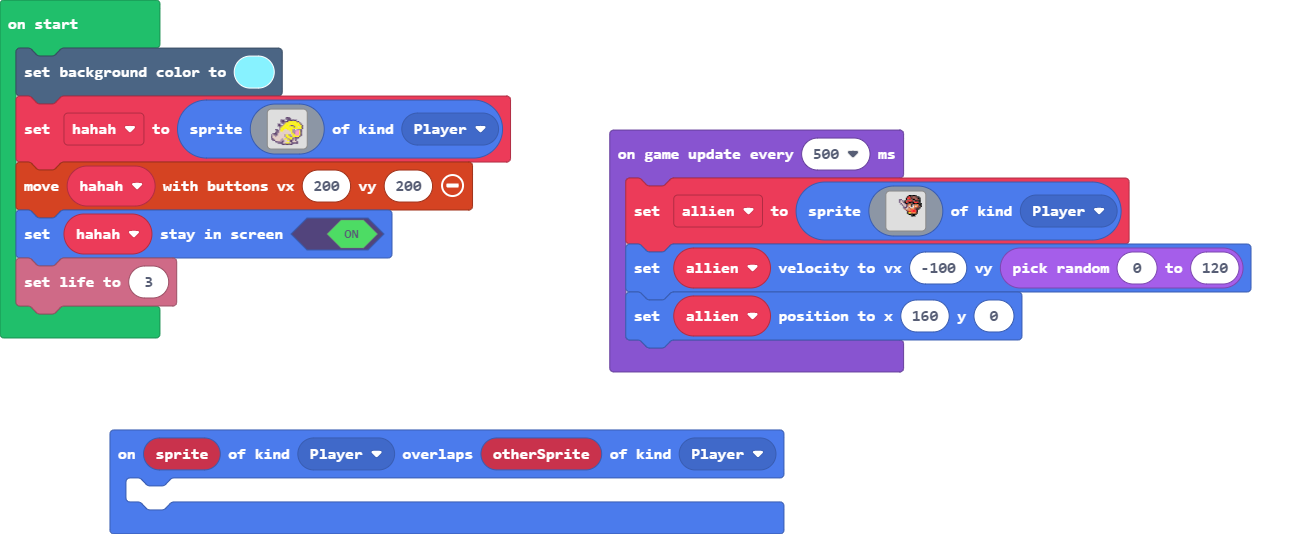
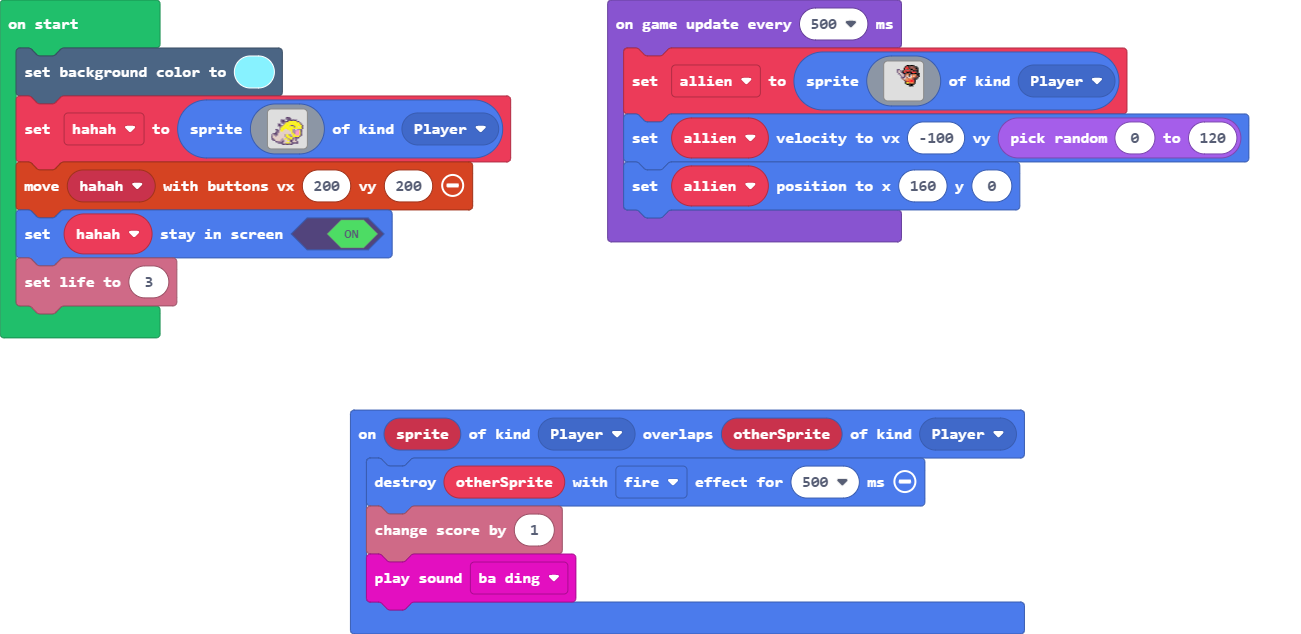
Update main.blocks, main.ts

diff --git a/main.ts b/main.ts
@@ -1,48 +1,11 @@
-controller.A.onEvent(ControllerButtonEvent.Pressed, function () {
-    projectile = sprites.createProjectileFromSprite(img`
-        ................................
-        ................................
-        ................................
-        ................................
-        ................................
-        ................................
-        ................................
-        ...........2.2.2...222..........
-        ..........4.4.4..225552.........
-        .........2.2.2.225522252........
-        ........4.4.4.4.252292252.......
-        .........2.2.2.225522252........
-        ..........4.4.4..225552.........
-        ...........2.2.2...222..........
-        ................................
-        ................................
-        ................................
-        ................................
-        ................................
-        ................................
-        ................................
-        ................................
-        ................................
-        ................................
-        ................................
-        ................................
-        ................................
-        ................................
-        ................................
-        ................................
-        ................................
-        ................................
-        `, hahah, 200, 0)
-    music.pewPew.play()
-})
 sprites.onOverlap(SpriteKind.Player, SpriteKind.Player, function (sprite, otherSprite) {
-	
+    otherSprite.destroy(effects.fire, 500)
+    info.changeScoreBy(1)
+    music.baDing.play()
 })
 let allien: Sprite = null
-let projectile: Sprite = null
-let hahah: Sprite = null
 scene.setBackgroundColor(9)
-hahah = sprites.create(img`
+let hahah = sprites.create(img`
     ........................
     ........................
     ........................
